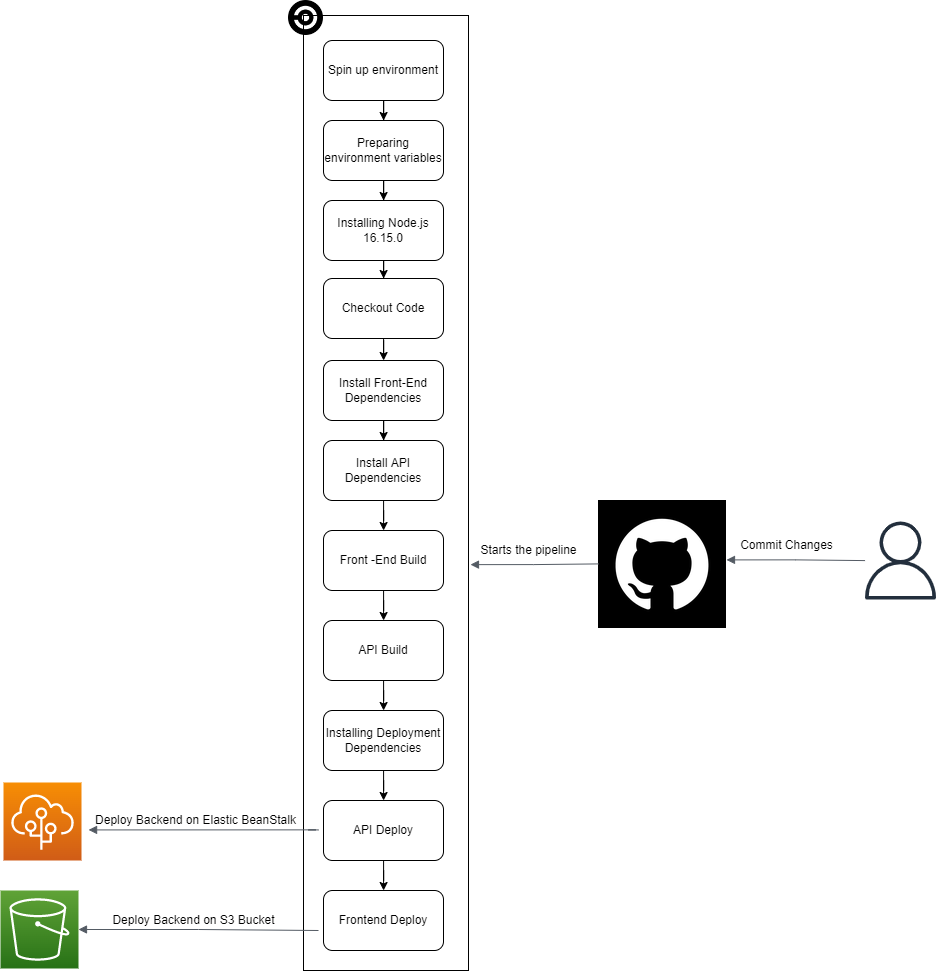
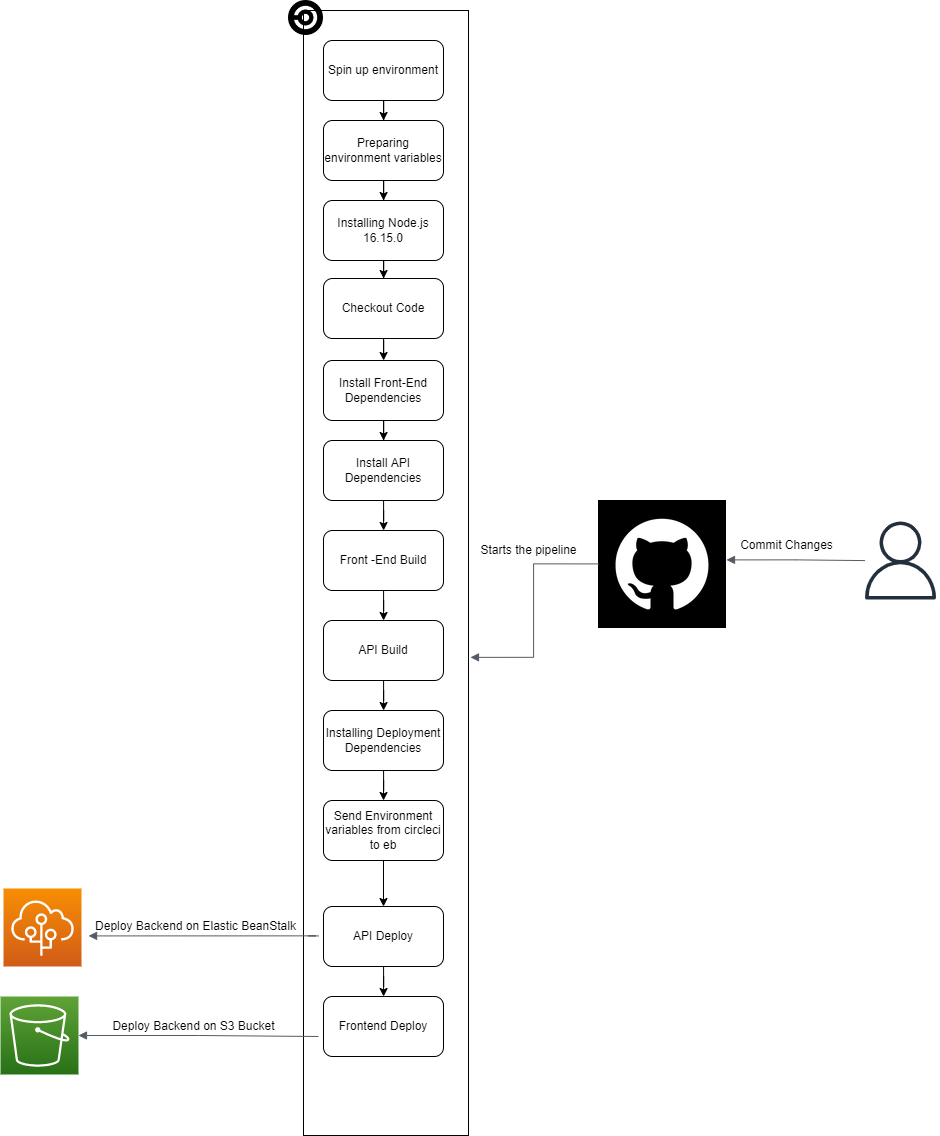
ArchDigrams edited

diff --git a/Docs/README.md b/Docs/README.md
@@ -58,7 +58,7 @@ Setup the following variables in the .env file or in the cloud environments:
 - `npm run frontend:build`      - Front-End Build Script
 - `npm run api:build`           - API Build
 - `sudo apt-get -y -qq update && sudo apt-get install python3-pip python3-dev build-essential && sudo pip3 install awsebcli && sudo pip3 install awscli` - Installing Deployment Dependencies
-- `eb setenv AWS_ACCESS_KEY_ID=${AWS_ACCESS_KEY_ID} && eb setenv AWS_BUCKET=${AWS_BUCKET} && eb setenv AWS_DEFAULT_REGION=${AWS_DEFAULT_REGION} && eb setenv AWS_REGION=${AWS_REGION} && eb setenv AWS_SECRET_ACCESS_KEY=${AWS_SECRET_ACCESS_KEY} && eb setenv DB_PORT=${DB_PORT} && eb setenv JWT_SECRET=${JWT_SECRET} && eb setenv POSTGRES_DB=${POSTGRES_DB} && eb setenv POSTGRES_HOST=${POSTGRES_HOST} && eb setenv POSTGRES_PASSWORD=${POSTGRES_PASSWORD} && eb setenv POSTGRES_USERNAME=${POSTGRES_USERNAME}` - Send Environment Variables To EB
+- `npm run ebPass`              - Send Environment Variables To EB
 - `npm run api:deploy`          - API Deploy
 - `npm run frontend:deploy`     - Frontend Deploy
 
